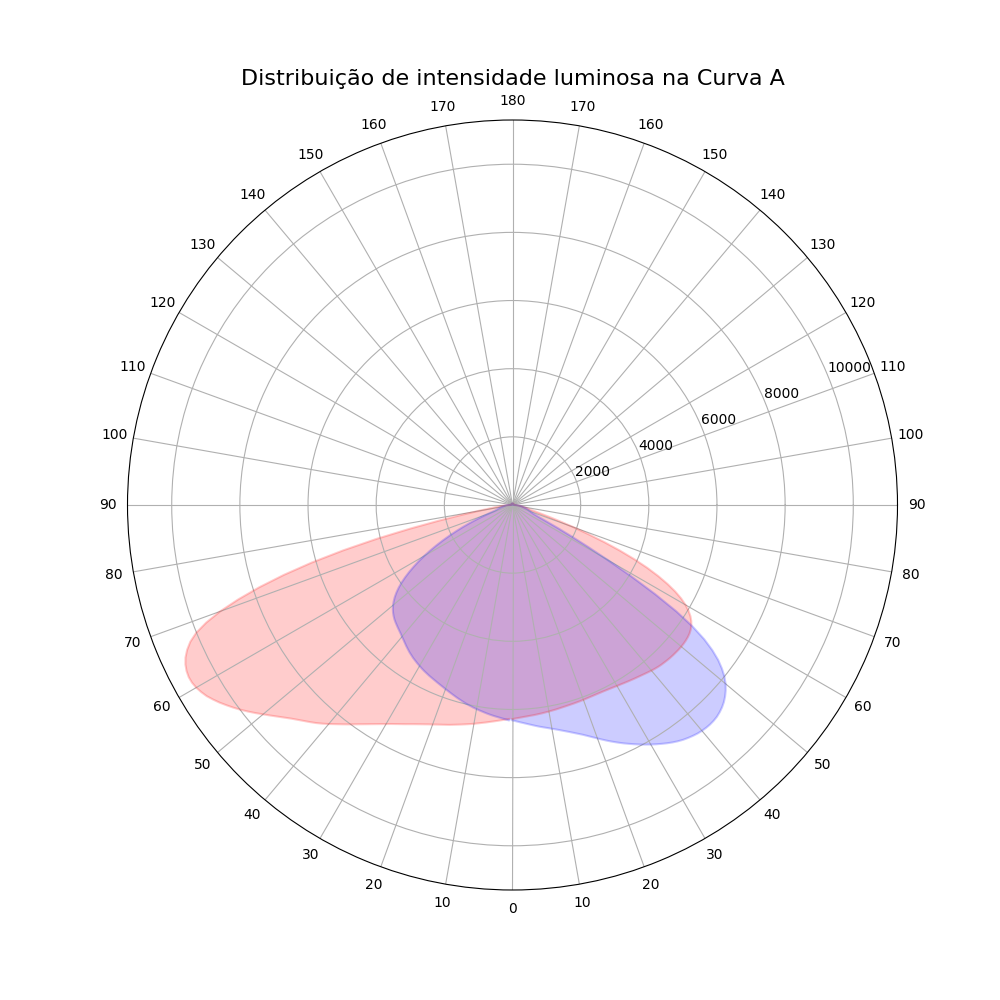
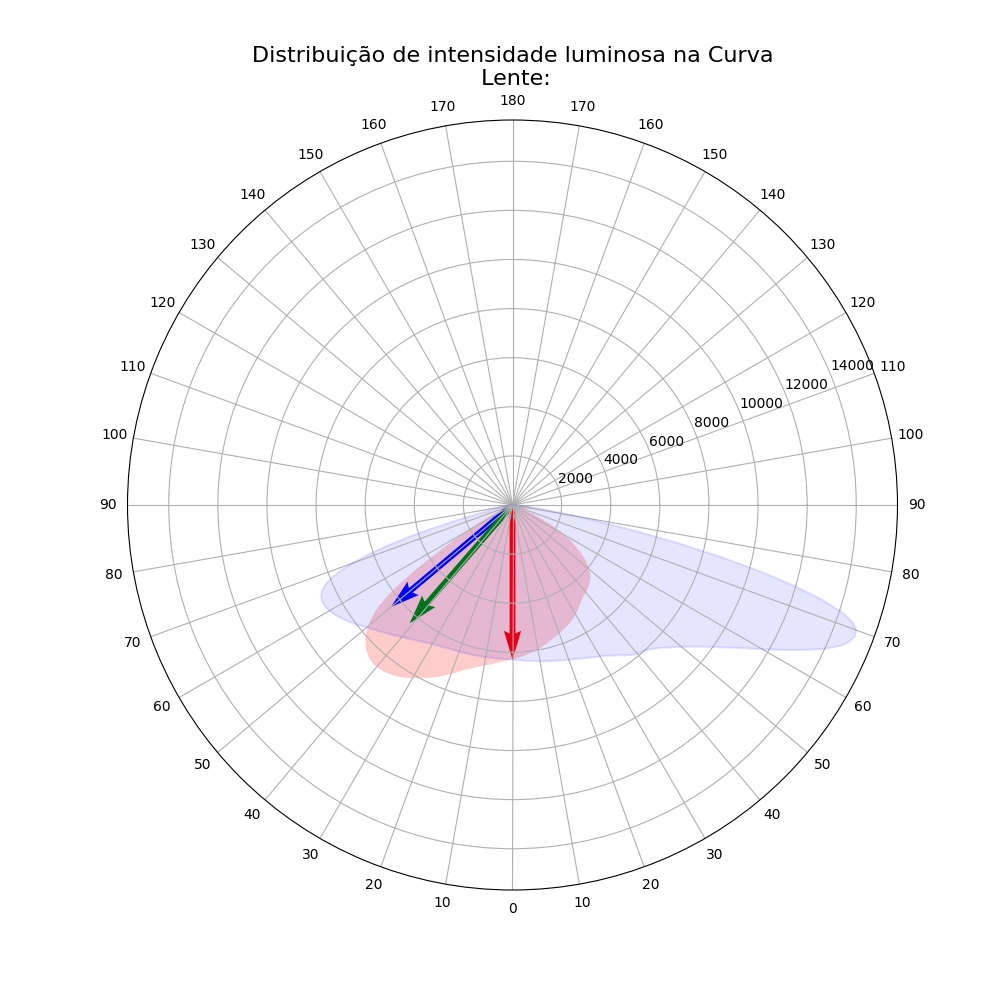
versão com quiver

diff --git a/VisualIES.py b/VisualIES.py
@@ -2,7 +2,7 @@ import numpy as np
 import matplotlib.pyplot as plt
 
 filt = 0.1
-angulo = 4
+angulo = 1
 page = './out/'
 
 
@@ -222,108 +222,69 @@ class IES(object):
 
 ies1 = IES("m1.ies")
 
-ies2 = IES("m2.ies")
-
 result = []
 ignor = []
 
 dd1 = ies1.Cd()
-dd2 = ies2.Cd()
 
-df = difere(dd1, dd2)
+d1 = cord(dd1, angulo)
+d2 = cord(dd1, angulo+1)
+maxmd = [0, 0]
+maxme = [0, 0]
 
-print(df)
+for i in range(len(cord(dd1, angulo))):
 
-for i in range(len(cord(dd2, angulo))):
-    d1 = cord(dd2, angulo)
-    d2 = cord(dd2, angulo+12)
+    if(d1[i] > maxmd[0]):
+        maxmd[0] = d1[i]
+        maxmd[1] = float(i)*np.pi/180-np.pi/2
 
-    if(d1[i] > (med(d1)*filt) and d2[i] > med(d2)*filt):
-        result.append(abs((((d1[i]+0.01)/(d2[i]+0.01))-1)*100))
-        ignor.append(0)
-    else:
-        result.append(0)
-        ignor.append(1)
+
+defase = angulo+int(len(dd1)/2)
+
+if(defase > len(dd1)-1):
+    defase = defase-len(dd1)
+
+d1 = cord(dd1, 4)
+
+for i in range(len(cord(dd1, angulo))):
+
+    if(d1[i] > maxme[0]):
+        maxme[0] = d1[i]
+        maxme[1] = (float(90-i)*np.pi/180+np.pi)
+
+print(maxme[1])
 
 x1 = list(range(90, 180, 10))
 x2 = sorted(x1, key=int, reverse=True)
-
 x3 = list(range(10, 90, 10))
 x4 = sorted(x3, key=int, reverse=True)
 
 x = x1+[180]+x2+x4+[0]+x3
 
-# tamanho da figura
+
 plt.figure(figsize=(10, 10))
 plt.axes(projection='polar')
-
-# divisão de graus
 plt.thetagrids(range(0, 360, 10), x)
 
-# titulo do grafico
-plt.title("Distribuição de intensidade luminosa na Curva A", fontsize=16)
+plt.title("Distribuição de intensidade luminosa na Curva\n Lente:", fontsize=16)
+
 
 plt.fill(rad(coord(ies1.Cd(), angulo)), coord(
     ies1.Cd(), angulo), '-r', alpha=0.2)
 
-plt.plot(rad(coord(ies1.Cd(), angulo)), coord(
-    ies1.Cd(), angulo), '-r', alpha=0.2)
-
-plt.plot(rad(coord(ies1.Cd(), angulo+6)),
-         coord(ies1.Cd(), angulo+6), '-b', alpha=0.2)
-
-plt.fill(rad(coord(ies1.Cd(), angulo+6)),
-         coord(ies1.Cd(), angulo+6), '-b', alpha=0.2)
-
-plt.savefig(page+'CurvaA.png')
-
-plt.figure(figsize=(10, 10))
-plt.axes(projection='polar')
-plt.thetagrids(range(0, 360, 10), x)
-plt.title("Distribuição de intensidade luminosa na Curva B", fontsize=16)
-plt.plot(rad(coord(ies2.Cd(), angulo)), coord(ies2.Cd(), angulo), '-r')
-plt.fill(rad(coord(ies2.Cd(), angulo)), coord(
-    ies2.Cd(), angulo), 'r', alpha=0.2)
-plt.plot(rad(coord(ies2.Cd(), angulo+6)),
-         coord(ies2.Cd(), angulo+6), '-b', alpha=0.2)
-plt.fill(rad(coord(ies2.Cd(), angulo+6)),
-         coord(ies2.Cd(), angulo+6), '-b', alpha=0.2)
-
-plt.savefig(page+'CurvaB.png')
-
-plt.figure(figsize=(10, 10))
-plt.axes(projection='polar')
-plt.thetagrids(range(0, 360, 10), x)
-plt.title(
-    "Distribuição de Difernça da intensidade luminosa de A e B ", fontsize=16)
-plt.plot(rad(result), result, '-b')
-plt.plot(rad(ignor), ignor, '-r')
-plt.quiver(0, 0, 00, 100, color='black',
+plt.quiver(0, 0, maxmd[1], maxmd[0], color='red',
+           angles="xy", scale_units='xy', scale=1.)
+plt.quiver(0, 0, maxme[1], maxme[0], color='blue',
            angles="xy", scale_units='xy', scale=1.)
 
+plt.quiver(0, 0, (maxmd[1]-(maxme[1]+float(90*2-i)*np.pi/180))+np.pi, (maxmd[0]+maxme[0])/2, color='g',
+           angles="xy", scale_units='xy', scale=1.)
 
-plt.legend(["Diferença = "+str(df)[:7]+"%",
-           "Filtro de Ruido de fundo"], loc='best', fontsize=16)
+plt.plot(rad(coord(ies1.Cd(), angulo+6)),
+         coord(ies1.Cd(), angulo+6), '-b', alpha=0.1)
+plt.fill(rad(coord(ies1.Cd(), angulo+6)),
+         coord(ies1.Cd(), angulo+6), '-b', alpha=0.1)
+plt.savefig(page+'CurvaA.png')
 
-plt.savefig(page+'Resultado.png')
 
-print(ies1.Dic()['[_CURRENT]'][0].split()[0])
-'''
-arquivo = open(page+'Resultados.txt', 'w', encoding='utf-8')
-arquivo.write("\tCoparação entre .IES's\n\n")
-arquivo.write("Fluxo 1 = "+str(ies1.Lm())+" Lm\n")
-arquivo.write("Fluxo 2 = "+str(ies2.Lm())+" Lm\n")
-arquivo.write("Diferenca de fluxo = " +
-              str((ies1.Lm()/ies2.Lm()-1)*100)[:7]+"%\n")
-arquivo.write("\n")
-arquivo.write(
-    "Difernça de Distribuição da intensidade luminosa = "+str(df)[:7]+"%\n")
-
-arquivo.write("Potência 1 = "+str(float(ies1.Dic()
-              ['[_VOLTAGE]'][0].split()[0])*float(ies1.Dic()['[_CURRENT]'][0].split()[0]))+"W\n")
-arquivo.write("Potência  2 = "+str(ies2.Dic())+" Lm\n")
-arquivo.write("Diferenca de fluxo = " +
-              str((ies1.Lm()/ies2.Lm()-1)*100)[:7]+"%\n")
-arquivo.close()
-'''
 # plt.show()
